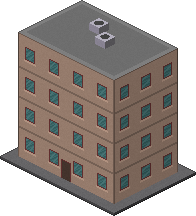
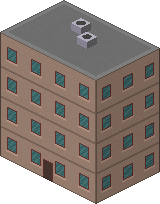
Remove the pavement pads under buildings
Pads covered the sidewalk and ran over the road. The art kit no longer
draws them (nor the diner's lot or the fast-food pad), and the city stops
using the plated legacy sprites: their pad-less twins fill small lots and
new-art buildings take the large ones.

diff --git a/js/city.js b/js/city.js
@@ -47,18 +47,13 @@
   /* ---------- sprites ---------- */
 
   // `base`: bottom corner of the footprint in sprite px. `a`/`b`: footprint
-  // in tiles along u / v. Plated sprites include their own pavement.
+  // in tiles along u / v.
   const BUILDINGS = {
-    tower:   { src: 'building-tower.png',        base: [126, 153],   a: 1.906, b: 1.156 },
-    corner:  { src: 'building-corner.png',       base: [110.5, 147], a: 1.664, b: 1.039 },
-    house:   { src: 'building-house.png',        base: [118, 154],   a: 1.781, b: 1.062 },
-    cafe:    { src: 'building-cafe.png',         base: [118, 134],   a: 1.781, b: 1.062 },
     kiosk:   { src: 'building-modern.png',       base: [90, 114],    a: 1.344, b: 0.656 },
     cottage: { src: 'building-small.png',        base: [90, 135],    a: 1.344, b: 0.656 },
     flats:   { src: 'buildings/corner-bare.png', base: [86, 128],    a: 1.344, b: 0.656 },
     office:  { src: 'buildings/tower-bare.png',  base: [86, 128],    a: 1.344, b: 0.656 },
   };
-  const PLATED = ['tower', 'corner', 'house', 'cafe'];
   const BARE = ['kiosk', 'cottage', 'flats', 'office'];
 
   // Ground contact point of each prop, in sprite pixels.
@@ -92,6 +87,8 @@
   const PLAZA_BUILDINGS = ['buildings/shop-6.png', 'buildings/shop-7.png', 'buildings/fastfood.png',
     'buildings/apartment-1.png', 'buildings/apartment-2.png'];
   const DOWNTOWN_ART = ['buildings/shop-7.png', 'buildings/brick-3.png', 'buildings/office-5.png'];
+  // Larger buildings for a block's back row or a wide downtown lot.
+  const BIG_ART = ['buildings/apartment-1.png', 'buildings/brick-3.png', 'buildings/office-5.png'];
   const TREES = ['oak', 'oak-small', 'maple', 'birch', 'olive', 'pine', 'pine-small'].map(n => `nature/trees/${n}.png`);
   const BUSHES = ['bush', 'bush-small', 'bush-flowers', 'shrub'].map(n => `nature/bushes/${n}.png`);
   const GRASSES = ['grass-a', 'grass-a', 'grass-b', 'grass-lush', 'grass-flowers'].map(n => `art/ground/${n}`);
@@ -400,13 +397,20 @@
     }
     const signalAt = new Map(signals.map((sg, k) => [key(sg.u, sg.v), k]));
 
+    const fp = name => (art[name] && art[name].footprint) || [1, 1];
+    const artLot = (name, cu, cv, district) => {
+      const [a, b] = fp(name);
+      lots.push(['art:' + name, cu - a / 2, cu + a / 2, cv - b / 2, cv + b / 2, district]);
+    };
+
     // Block templates. (u, v) is the block's top tile; offsets are in [0, 3).
     const T = {
       twin(u, v) {
         // Back building against the block's back edge, front one on the
         // street, so the back one's entrance faces open ground.
-        const p = shuffle([...PLATED]), b0 = BUILDINGS[p[0]].b, b1 = BUILDINGS[p[1]].b;
-        lots.push([p[0], u, u + 3, v + 0.06, v + 0.06 + b0], [p[1], u, u + 3, v + 2.94 - b1, v + 2.94]);
+        const [p0, p1] = shuffle([...BIG_ART]), b0 = fp(p0)[1], b1 = fp(p1)[1];
+        artLot(p0, u + 1.5, v + 0.1 + b0 / 2);
+        artLot(p1, u + 1.5, v + 2.9 - b1 / 2);
         prop(pick(PLANTERS), u + 0.22, v + 0.4 + rng() * 2.2);
         if (rng() < 0.6) prop('lamp.png', u + 2.8, v + 0.18);
       },
@@ -420,8 +424,8 @@
       },
       mixed(u, v) {
         pave(u, v);
-        const back = pick(PLATED), b0 = BUILDINGS[back].b;
-        lots.push([back, u, u + 3, v + 0.06, v + 0.06 + b0]);
+        const back = pick(BIG_ART);
+        artLot(back, u + 1.5, v + 0.1 + fp(back)[1] / 2);
         lots.push([pick(BARE), u, u + 1.5, v + 1.5, v + 3], [pick(BARE), u + 1.5, u + 3, v + 1.5, v + 3]);
       },
       park(u, v) {
@@ -445,7 +449,7 @@
       },
       plaza(u, v) {
         pave(u, v);
-        lots.push([pick(['cafe', 'tower']), u, u + 3, v + 0.25, v + 1.75]);
+        lots.push([pick(['kiosk', 'office']), u, u + 3, v + 0.25, v + 1.75]);
         prop('props/bench-ne.png', u + 0.7, v + 2.5);
         prop('props/bench-ne.png', u + 2.1, v + 2.5);
         prop('props/bin-gray.png', u + 1.45, v + 2.75);
@@ -479,7 +483,8 @@
             prop(pick(PLANTERS), u + w / 2 - 0.3, v + 0.4);
             prop('props/bench-ne.png', u + w / 2 + 0.2, v + 0.75);
           } else {
-            lots.push([w > 2 ? pick(PLATED) : pick(BARE), u, u + w, v, v + ROW]);
+            if (w > 2) { const n = pick(BIG_ART); artLot(n, u + w / 2, v + ROW - 0.05 - fp(n)[1] / 2); }
+            else lots.push([pick(BARE), u, u + w, v, v + ROW]);
           }
           u += w;
         }
@@ -491,11 +496,6 @@
     // Art sprites (assets/art, see tools/art.py) stand at their footprint
     // center: lots as ['art:<name>', u0, u1, v0, v1, district], props as
     // ['art/<name>', u, v].
-    const fp = name => (art[name] && art[name].footprint) || [1, 1];
-    const artLot = (name, cu, cv, district) => {
-      const [a, b] = fp(name);
-      lots.push(['art:' + name, cu - a / 2, cu + a / 2, cv - b / 2, cv + b / 2, district]);
-    };
     const artProp = (name, u, v) => props.push(['art/' + name, u, v]);
     // Trees and bushes spread over an area, kept apart and off `blocked`.
     function scatter(u0, v0, lu, lv, count, names, blocked = () => false, gap = 0.45) {
@@ -653,14 +653,14 @@
     }
 
     // Entrances: every building's door is on its +v front. Keep a clear
-    // DOOR-deep strip in front of it, and (new sprites) their pad and any
-    // part drawn outside the footprint, free of props; count buildings that
+    // DOOR-deep strip in front of it, and (new sprites) any part drawn
+    // outside the footprint, free of props; count buildings that
     // intrude on another's entrance (tools/sim.js fails on any).
     const DOOR = 0.4;
     const EXTRA = {                                  // sprite ground beyond the footprint: [-u, +u, -v, +v]
-      'buildings/brick-4.png': [0, 0, 0, 0.55], 'houses/diner.png': [0.2, 0.35, 0.15, 0.7],
-      'buildings/fastfood.png': [0.14, 0.62, 0.14, 0.2], 'buildings/apartment-2.png': [0.26, 0.26, 0.26, 0.3],
-      'civic/church.png': [0.04, 0.04, 0, 0.45], 'civic/bank.png': [0, 0, 0, 0.4],
+      'buildings/brick-4.png': [0, 0, 0, 0.55], 'houses/diner.png': [0, 0.18, 0, 0],
+      'buildings/fastfood.png': [0, 0.34, 0, 0], 'buildings/apartment-2.png': [0, 0.22, 0, 0.3],
+      'civic/church.png': [0.04, 0.04, 0, 0.36], 'civic/bank.png': [0, 0, 0, 0.36],
     };
     const footprint = lot => {
       if (lot[0].startsWith('art:')) return [lot[1], lot[2], lot[3], lot[4]];
@@ -670,7 +670,7 @@
     const keepouts = [], doors = [];
     for (const lot of lots) {
       const f = footprint(lot), cu = (f[0] + f[1]) / 2, w = Math.min(f[1] - f[0], 0.9);
-      const name = lot[0].slice(4), x = EXTRA[name] || [0.14, 0.14, 0.14, 0.14];
+      const name = lot[0].slice(4), x = EXTRA[name] || [0, 0, 0, 0];
       const door = [cu - w / 2, cu + w / 2, f[3] + (x[3] > 0.2 ? x[3] : 0), f[3] + Math.max(x[3], 0) + DOOR];
       doors.push([lot, door]);
       keepouts.push(door);

diff --git a/tools/art.py b/tools/art.py
@@ -212,8 +212,6 @@ FLOWERS = [rgb(h) for h in ("#b9a45c", "#a8676a", "#c7bba0", "#8f6f9a", "#b57a4a
 WOOD = "#4b3931"
 TRIM = "#6c3434"
 GLASS = ramp("#356667", "#416b6c", "#467a7b", "#518081")
-PAVE = "#666567"
-PAVE_EDGE = "#4a494b"
 
 
 # ---------- nature ----------
@@ -696,13 +694,6 @@ def wall_shader(s, color, length_px, height_px, floors, windows, door=None, base
     return shader
 
 
-def plated(s, x0, y0, sx, sy, pad=0.14):
-    """Gray pavement pad around a footprint, like the existing plated
-    buildings."""
-    s.box(x0 - pad, y0 - pad, -3, sx + 2 * pad, sy + 2 * pad, 3,
-          flat(s, PAVE, 8), flat(s, PAVE_EDGE, 5), flat(s, "#3e3d3f", 5))
-
-
 def gable(s, x0, y0, sx, sy, zw, rh, roof, gable_col, axis="u", over=0.07):
     """Gable roof over a footprint, ridge along `axis`, eaves at zw."""
     r = np.array(roof)
@@ -731,11 +722,9 @@ def gable(s, x0, y0, sx, sy, zw, rh, roof, gable_col, axis="u", over=0.07):
 
 
 def house(seed, a=1.2, b=0.9, floors=1, wall="#a47d6a", roof=None, gable_col="#4f3a30",
-          axis="u", garage=False, chimney=True, porch=True, pad=False, base="#6e5a4c", siding="boards"):
+          axis="u", garage=False, chimney=True, porch=True, base="#6e5a4c", siding="boards"):
     roof = roof or ramp("#6e4c49", "#734c48", "#835d59", "#7d5550")
     s = Sprite(260, 230, 130, 150, seed)
-    if pad:
-        plated(s, -a / 2, -b / 2, a + (0.55 if garage else 0), b)
     x0, y0 = -a / 2, -b / 2
     hgt = floors * FLOOR + 4
     lu, lv = b * math.hypot(HW, HH), a * math.hypot(HW, HH)          # face lengths, px
@@ -803,13 +792,10 @@ def fan_top(s):
     return shader
 
 
-def building(seed, kind="apartment", a=1.4, b=1.0, floors=4, wall="#a47d6a", pad=True, mart=False,
+def building(seed, kind="apartment", a=1.4, b=1.0, floors=4, wall="#a47d6a", mart=False,
              canopy=False):
     rng = np.random.default_rng(seed)
     s = Sprite(300, 380, 150, 290, seed)
-    if pad:
-        # A canopy entrance runs out over the sidewalk: pad extends in front.
-        plated(s, -a / 2, -b / 2, a, b + (0.42 if canopy else 0), pad=0.26 if mart else 0.14)
     x0, y0 = -a / 2, -b / 2
     fh = 34 if kind == "brick" else FLOOR               # taller floors fit arched windows
     hgt = floors * fh + 4
@@ -1039,18 +1025,11 @@ def sign_face(s, text, length_px, height_px, board, ink, bulbs):
 
 def diner(seed):
     """Roadside diner: ribbed stainless body, red stripe, window band, glass
-    vestibule, pole sign and a small parking lot."""
+    vestibule and a pole sign."""
     s = Sprite(320, 260, 160, 160, seed)
     a, b, h = 1.6, 0.75, 26
     x0, y0 = -a / 2, -b / 2
     steel, red = rgb("#a9a6b2"), rgb("#8a3a32")
-
-    # Lot: pavement with parking lines along the front.
-    def lot(a_, b_, xs, ys):
-        out = np.repeat(rgb(PAVE)[None], len(a_), 0) + (s.grain[ys, xs] - 0.5)[:, None] * 8
-        line = (b_ > 0.72) & (np.mod(a_ * 2.3 * 71.6, 16) < 1.2)
-        return np.where(line[:, None], rgb("#c9c3b4"), out)
-    s.box(x0 - 0.2, y0 - 0.15, -3, a + 0.55, b + 0.75, 3, lot, flat(s, PAVE_EDGE, 5), flat(s, "#3e3d3f", 5))
 
     def body(length_px, door=None):
         def shader(a_, b_, xs, ys):
@@ -1082,8 +1061,8 @@ def diner(seed):
     # Glass vestibule in front of the door.
     vx = x0 + a * 0.62
     s.box(vx, y0 + b, 0, 0.26, 0.16, 22, roof, body(0.26 * 71.6, door=(0.25, 0.75)), body(0.16 * 71.6))
-    # Pole sign at the lot's front corner.
-    px, py = x0 + a + 0.2, y0 + b + 0.45
+    # Pole sign beside the front corner.
+    px, py = x0 + a + 0.12, y0 + b - 0.1
     s.box(px - 0.02, py - 0.02, 0, 0.04, 0.04, 56, flat(s, "#716f74"), flat(s, "#8e8897"), flat(s, "#5b5a5c"))
     board_len = 0.5
     s.box(px - board_len / 2, py - 0.03, 56, board_len, 0.06, 17, flat(s, "#6e2420"),
@@ -1118,8 +1097,6 @@ def fastfood(seed):
     a, b, h = 1.3, 0.95, 26
     x0, y0 = -a / 2, -b / 2
     red, yellow, cream = rgb("#8a3a32"), rgb("#c9a84a"), rgb("#d0c4ac")
-    # Pad, wider on the +u side for the patio.
-    s.box(x0 - 0.14, y0 - 0.14, -3, a + 0.62, b + 0.3, 3, flat(s, PAVE, 8), flat(s, PAVE_EDGE, 5), flat(s, "#3e3d3f", 5))
 
     def wall(length_px, door=None):
         def shader(a_, b_, xs, ys):
@@ -1233,7 +1210,6 @@ def school(seed):
     a, b, fh, floors = 1.8, 1.0, 30, 2
     x0, y0 = -a / 2, -b / 2
     hgt = floors * fh + 4
-    plated(s, x0, y0, a, b + 0.12)
     civic_walls(s, x0, y0, a, b, hgt, floors, fh, "#7d4a3e", "brick", spans(6, skip=(2, 3)), spans(3),
                 (0.43, 0.57))
     cornice(s, x0, y0, a, b, hgt)
@@ -1316,7 +1292,6 @@ def church(seed):
     a, b, hgt = 1.15, 1.45, 44
     x0, y0 = -a / 2, -b / 2
     tw, th = 0.34, 100
-    plated(s, x0 - 0.04, y0, a + 0.08, b + 0.42)
     # Nave: stained glass along the side, the portal on the front wall.
     side = wall_shader(s, STONE, b * 71.6, hgt, 1, spans(4, 0.3, 0.7), None, None, "plain", frame="#8e8680",
                        window_style="arched", floor_h=46, glass_pal=STAINED)
@@ -1370,7 +1345,6 @@ def bank(seed):
     a, b, fh, floors = 1.5, 1.1, 34, 2
     x0, y0 = -a / 2, -b / 2
     hgt = floors * fh + 4
-    plated(s, x0, y0, a, b + 0.38)
     civic_walls(s, x0, y0, a, b, hgt, floors, fh, STONE, "plain", spans(5, skip=(1, 2, 3)), spans(3),
                 (0.27, 0.73), "arched", "#8e8680", None, glass_door=True)
     for dx in (0.385, 0.615):                              # two revolving doors
@@ -1394,7 +1368,6 @@ def post_office(seed):
     a, b, fh, floors = 1.4, 1.0, 30, 2
     x0, y0 = -a / 2, -b / 2
     hgt = floors * fh + 4
-    plated(s, x0, y0, a, b + 0.12)
     civic_walls(s, x0, y0, a, b, hgt, floors, fh, "#a47d6a", "brick", spans(5), spans(3), (0.43, 0.57))
     cornice(s, x0, y0, a, b, hgt)
     flat_roof(s, x0, y0, a, b, hgt + 1, "#5b5a5c", units=2)
@@ -1413,7 +1386,6 @@ def police(seed):
     a, b, fh, floors = 1.4, 1.1, 30, 2
     x0, y0 = -a / 2, -b / 2
     hgt = floors * fh + 4
-    plated(s, x0, y0, a, b + 0.14)
     civic_walls(s, x0, y0, a, b, hgt, floors, fh, "#80848c", "plain", spans(5), spans(3), (0.43, 0.57),
                 frame="#2c3548")
     # Navy band at the floor line, the sign on it.
@@ -1436,7 +1408,6 @@ def fire_station(seed):
     a, b, fh, floors = 1.6, 1.1, 32, 2
     x0, y0 = -a / 2, -b / 2
     hgt = floors * fh + 4
-    plated(s, x0, y0, a, b + 0.2)
     # Hose tower at the back corner, taller than the station.
     tw, th = 0.34, 118
     civic_walls(s, x0, y0, tw, tw, th, 3, 38, "#7d3a32", "brick", [(0.35, 0.65)], [(0.35, 0.65)],
